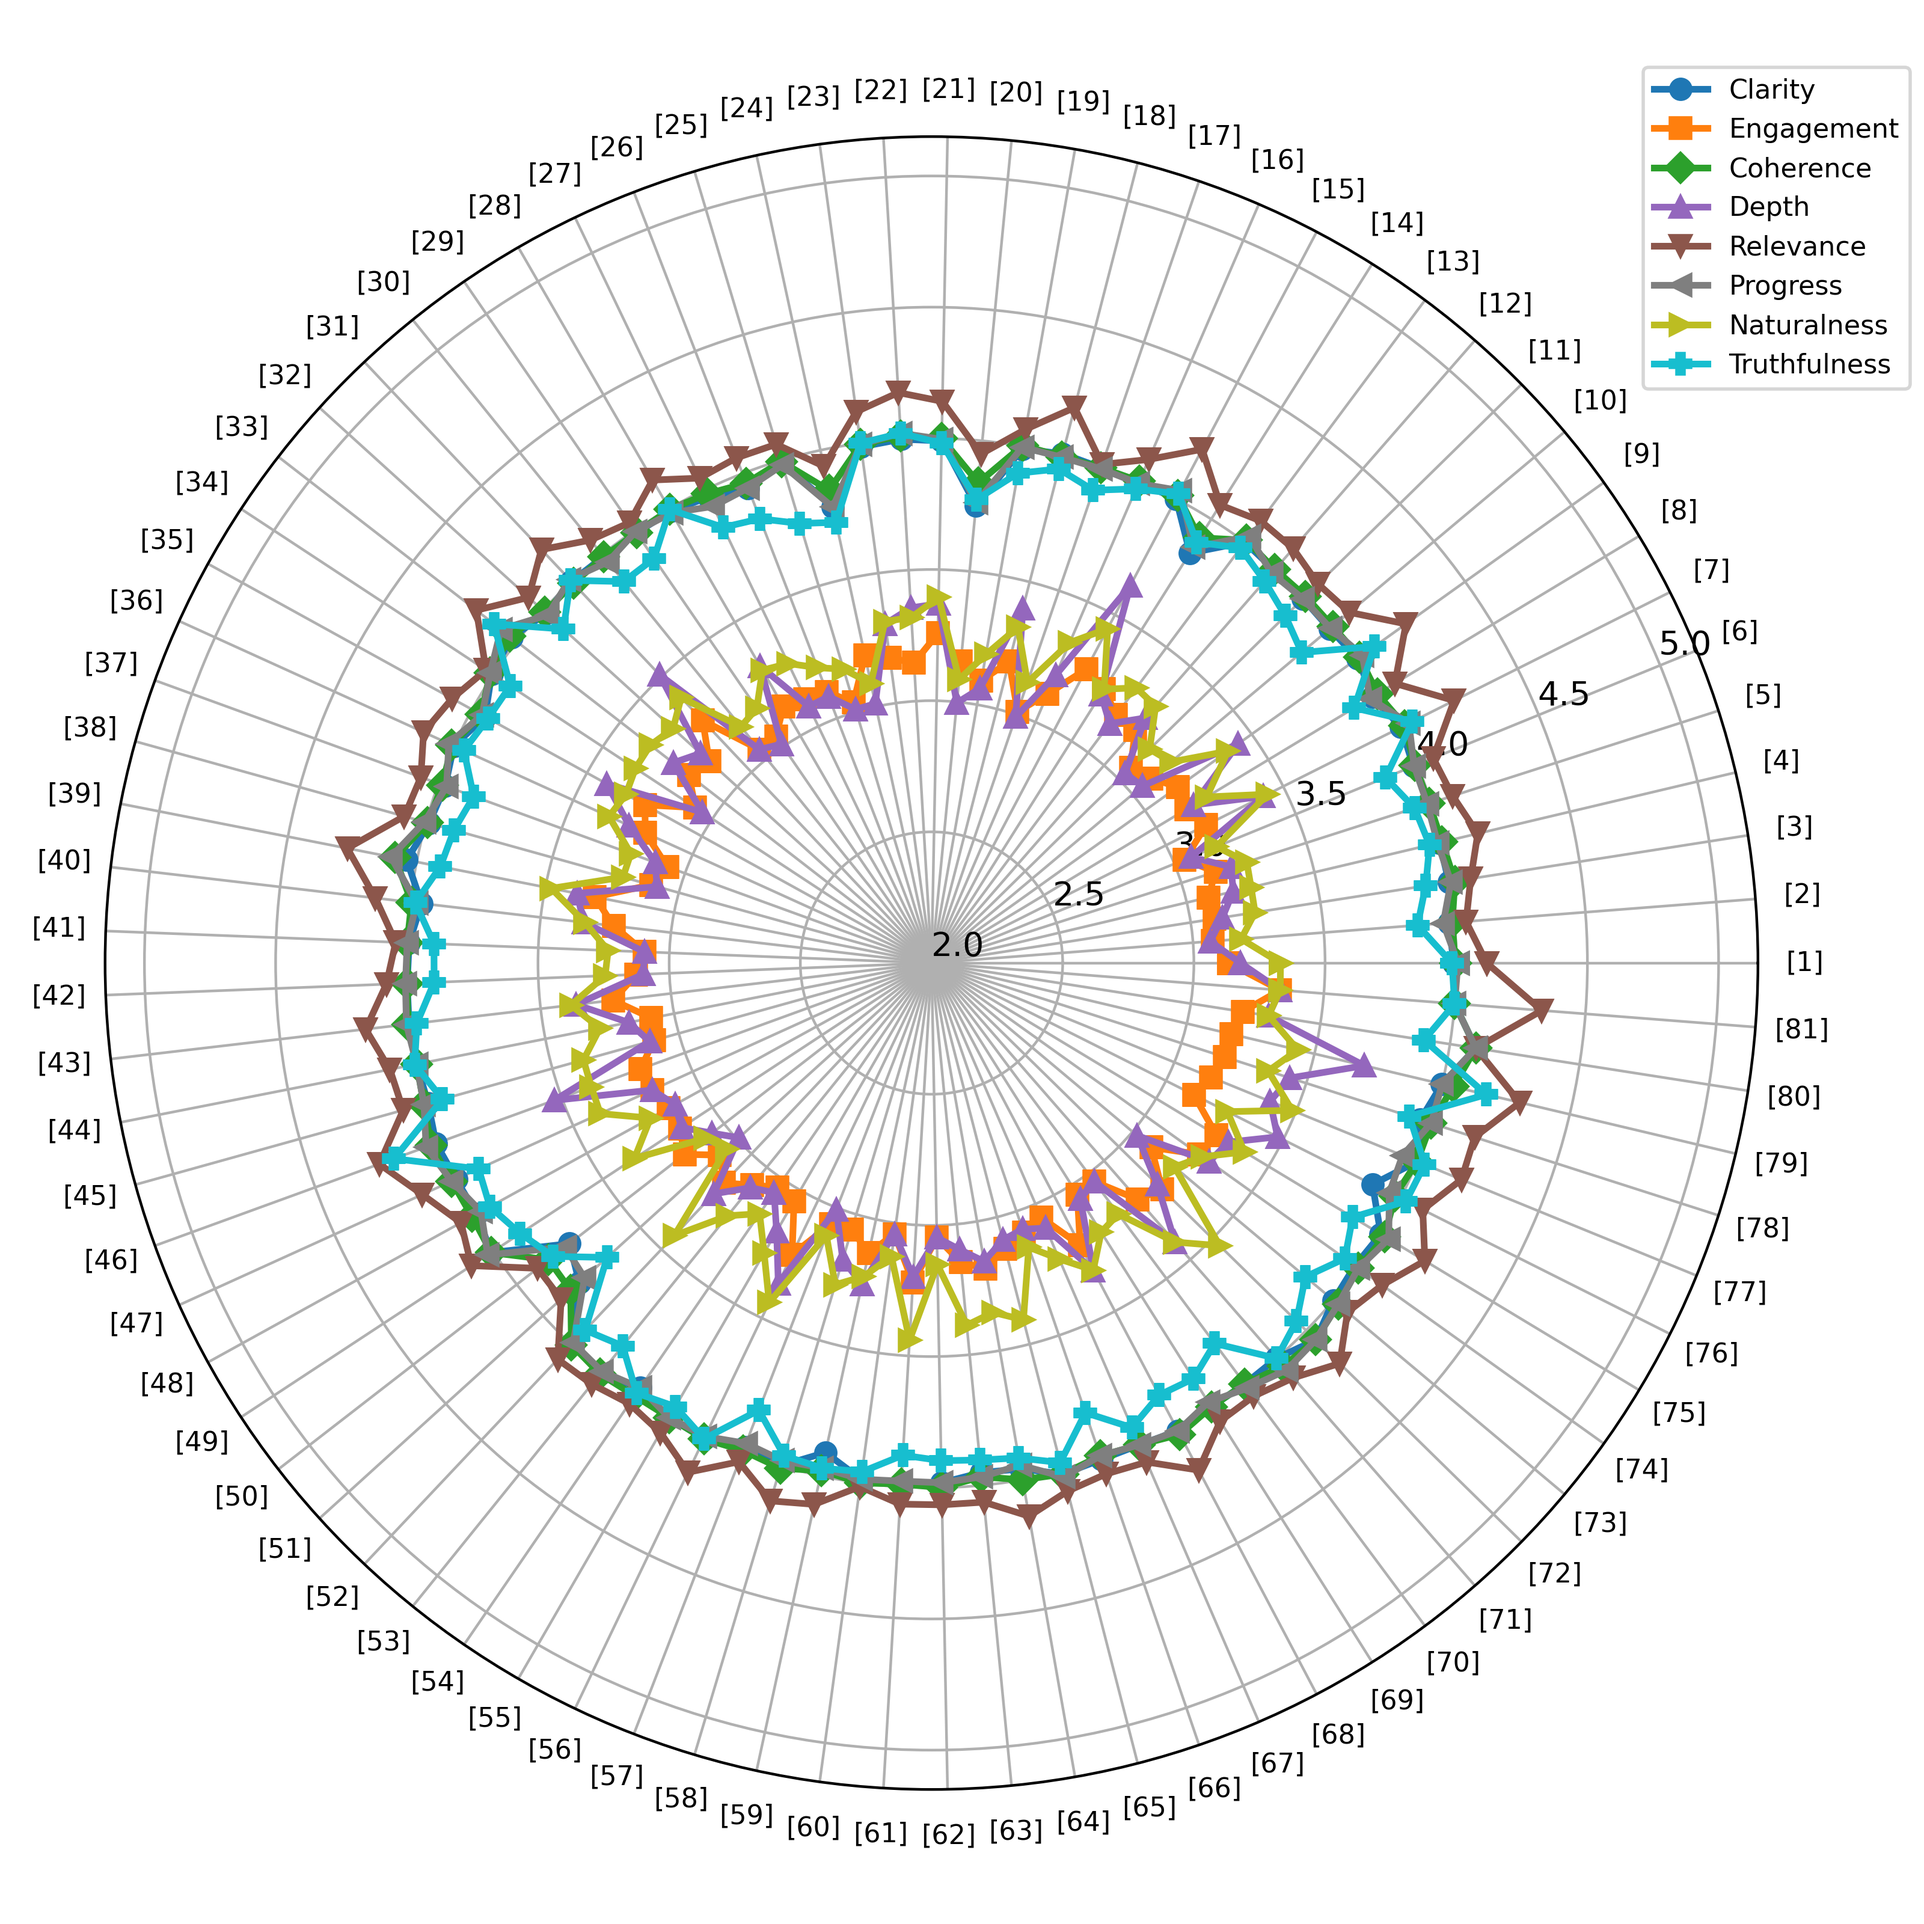
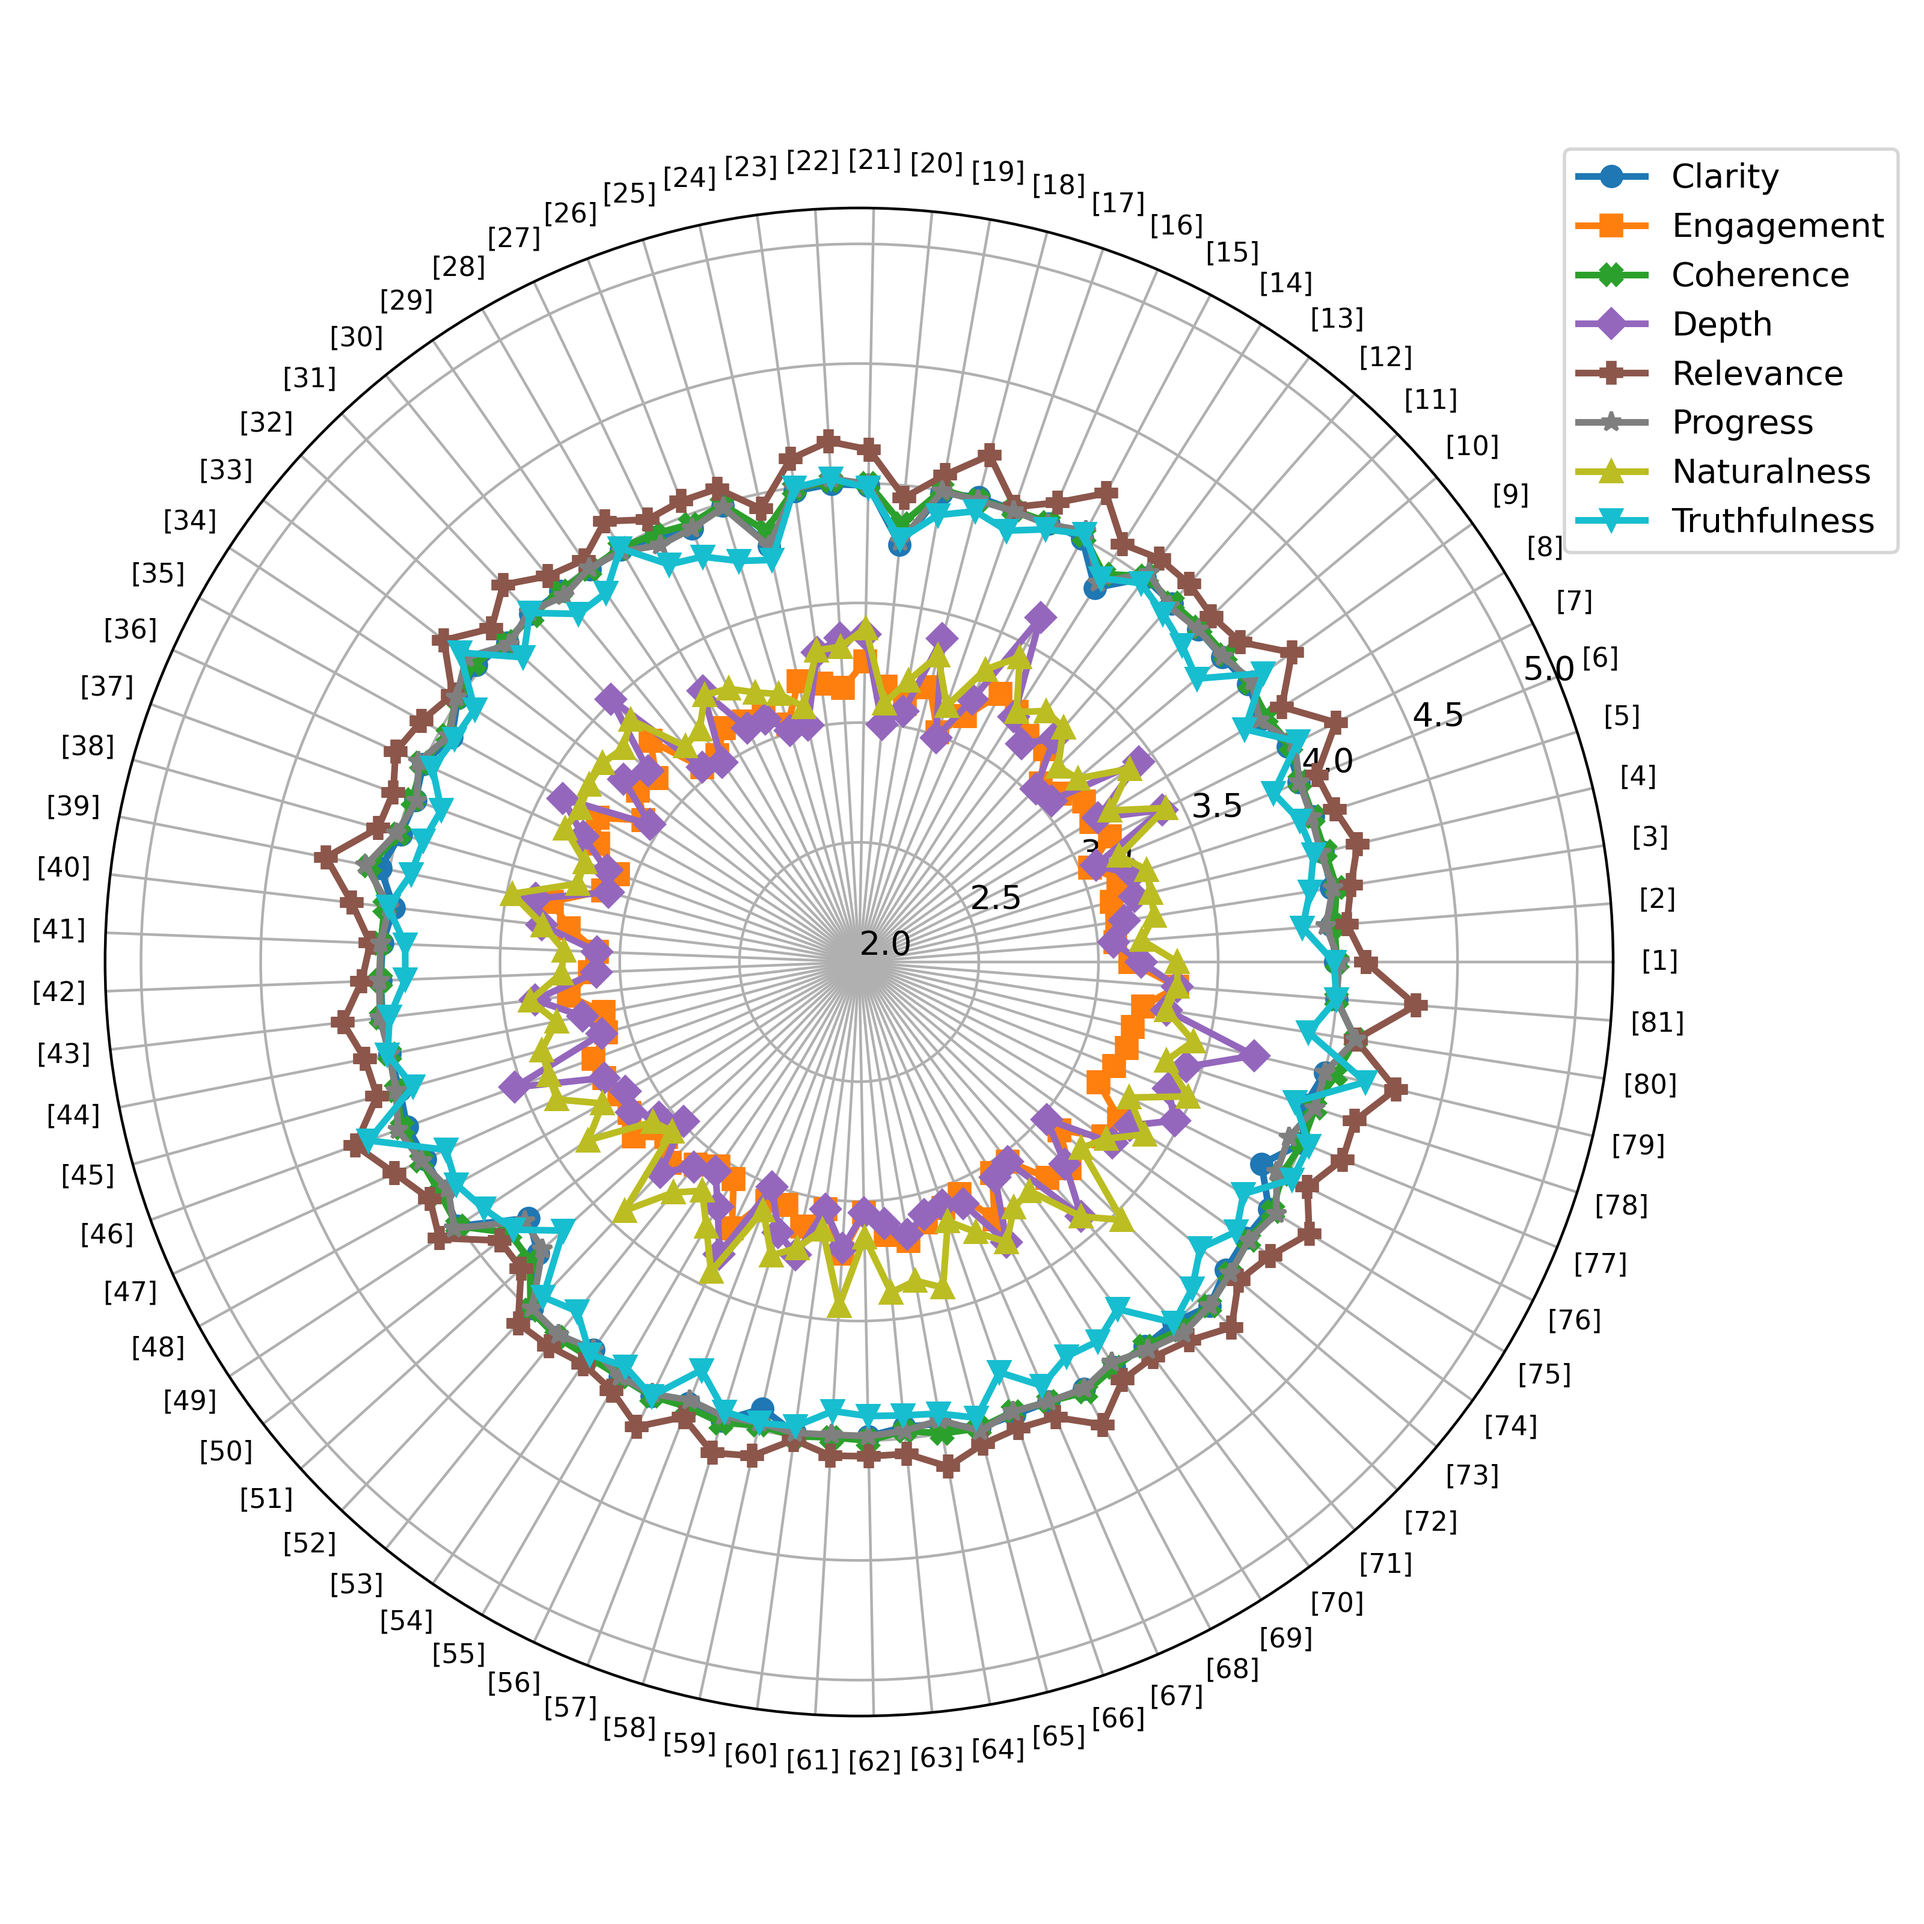
result plots

Changed region(s): [[0.0312, 0.0312, 1.0, 0.9688]]

diff --git a/utils/plot_llm_rubric_results.py b/utils/plot_llm_rubric_results.py
@@ -36,8 +36,8 @@ def plot_llm_rubric(fpath):
 
     # Prepare the x-ticks: [Topic1, Topic2, ...] with angle wrapping
     ax.set_xticks(angles[:-1])
-    ax.set_xticklabels([f"{df.columns[i]}" for i in range(num_categories)], fontsize=8, ha='center', va='center') # 'top', 'bottom', 'center', 'baseline', 'center_baseline
-    ax.tick_params(axis='x', pad=11)  # Increase vertical distance from axis
+    ax.set_xticklabels([f"{df.columns[i]}" for i in range(num_categories)], fontsize=10, ha='center', va='center') # 'top', 'bottom', 'center', 'baseline', 'center_baseline
+    ax.tick_params(axis='x', pad=15)  # Increase vertical distance from axis
 
     # Plot each model as a line
     for i, model in enumerate(df.index):
@@ -60,7 +60,7 @@ def plot_llm_rubric(fpath):
     #     ax.text(angle, 5.4, f"{label}", ha='center', va='center', fontsize=6)
 
     # Add legend
-    ax.legend(loc='upper right', bbox_to_anchor=(1.05, 1.08), fontsize=8)
+    ax.legend(loc='upper left', bbox_to_anchor=(1.0, 1.08), fontsize=10)
 
     # Save the plot
     plt.tight_layout()

diff --git a/utils/post_result_per_topic.py b/utils/post_result_per_topic.py
@@ -8,7 +8,7 @@ import numpy as np
 metrics = ["Clarity", "Engagement", "Coherence", "Depth", "Relevance", "Progress", "Naturalness", "Truthfulness"]
 
 def plot_tasks_per_topic(df, fpath):
-    markers = ['o', 's', 'D', '^', 'v', '<', '>', 'P']  # Circle, square, diamond, triangle, etc.
+    markers = ['o', 's', 'X', 'D', 'P', '*', '^', 'v', '<', '>']  # Circle, square, diamond, triangle, etc.
     colors = plt.cm.get_cmap('tab10', len(metrics))     # Use a colormap for different colors
 
     num_categories = len(df)
@@ -45,7 +45,7 @@ def plot_tasks_per_topic(df, fpath):
     #     ax.text(angle, 5.4, f"[{i+1}]", ha='center', va='center', fontsize=6)
 
     # Add legend
-    ax.legend(loc='upper right', bbox_to_anchor=(1.1, 1.05), fontsize=8)
+    ax.legend(loc='upper right', bbox_to_anchor=(1.2, 1.05), fontsize=10)
 
     # Save the plot
     plt.tight_layout()
